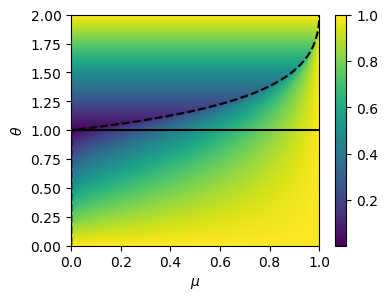
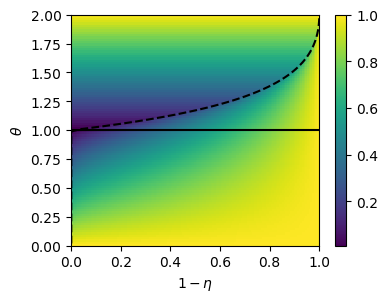
reshaped local analysis

diff --git a/paper.tex b/paper.tex
@@ -383,14 +383,14 @@ We now argue that a good choice for the functions $\theta_k$ may be constructed 
 This construction has several advantages:
 \begin{itemize}
 \item it allows to choose arbitrarily the parameter $\theta_0$ that will be used eventually when the algorithm is close to convergence (we motivate what are good choices for $\theta_0$ in section \ref{section:local});
-\item it is also an easy approach to having an adaptive method, as the approximation of $\Theta^*$ has a negligible cost (it only require to solve a one dimensional problem that depends on the smallest value of $(A_k \gamma)\oslash \mu^k$, which can be done in a few iterations of Newton's method).
+\item it is also an easy approach to having an adaptive method, as the approximation of $\Theta^*$ has a negligible cost (it only require to solve a one dimensional problem that depends on the smallest value of $(A_k \gamma)\oslash \mu^k$, which can be done in a few iterations of Newton's method);
 \item experiments show that this is often an excellent choice in practice.
 \end{itemize}
 
 \begin{proof}
 Looking at Figure~\ref{phi_omega} can help understand this proof.	Since the partial derivative of $\partial_\omega \varphi_\omega(x)$ is nonzero for any $x<1$, the implicit function theorem proves the continuity of $\Theta^*$.
 	The function $\Theta^*\left((A_k \gamma)\oslash \mu^k)\right)$ is such that every term in relation (\ref{eq:kl_diff_scal}) is non-negative.
-	Therefore, by lemma \ref{lemma:F_P_theta}, using this parameter minus $\delta$ ensures the strong decrease (\ref{eq:cond_theta_k}) of the Lyapunov function.
+	Therefore, by Lemma \ref{lemma:F_P_theta}, using this parameter minus $\delta$ ensures the strong decrease (\ref{eq:cond_theta_k}) of the Lyapunov function.
 	Constraining the parameter to $[1,\theta_0]$ preserves this property.% as using $\theta=1$ always satisfies inequality \eqref{eq:cond_theta_k} and using $\theta=\theta_0$ when it is smaller than $\Theta^*\left(\frac{A_k \gamma}{\mu^k}\right)$ does as well.
 \end{proof}
 
@@ -426,23 +426,51 @@ The resulting algorithm, which is proved to be convergent by Theorem~\ref{thm:al
 
 \section{Acceleration of local convergence rate}
 \label{section:local}
-In order to theoretically justify the acceleration of convergence that is observed in practice, we now study the local convergence rate of the algorithm. %We do not claim that this simple overrelaxation is the most efficient method to accelerate local convergence of fixed points---adaptive methods with excellent properties exist e.g.~\cite{2016arXiv160604133S}--- but this local analysis gives a hint for what makes our scheme relevant is the conjunction of our global convergence guarantee with this local acceleration property.
+In order to justify the acceleration of convergence that is observed in practice, we now study the local convergence rate of the overrelaxed algorithm, which follows from the classical convergence analysis of the linear SOR method. Our result involves the second largest eigenvalue of the matrix
+ \[
+M_1= \diag(1\oslash \mu^1) \, \gamma^* \, \diag(1\oslash \mu^2)\, ^t\gamma^*
+\]
+where $\gamma^*$ is the solution to the regularized OT problem. This matrix corresponds to the linearized dual SK iteration at the maximizer. We denote this second largest eigenvalue by $1-\eta$, which satisfies $\eta>0$ (see \cite{knight2008sinkhorn}).
 
-%The local behavior of the extrapolated is summarized in the next result, which gathers many results from the literature.
 \begin{proposition}\label{prop:local}
-Let $1-\eta$ be the local linear rate of convergence of the SK algorithm. By \cite{knight2008sinkhorn} we know that $\eta>0$. Then, for the optimal choice of parameter $\theta_0 = 2/(1+\sqrt{\eta})$, the overrelaxed projection algorithm converges locally linearly at a rate $(1-\sqrt{\eta})/(1+\sqrt{\eta})$.
+The SK algorithm converges locally at a linear rate $1-\eta$. For the optimal choice of extrapolation parameter $\theta^* = 2/(1+\sqrt{\eta})$, the overrelaxed projection algorithm converges locally linearly at a rate $(1-\sqrt{\eta})/(1+\sqrt{\eta})$. More generally, the local convergence of the overrelaxed algorithm is guaranteed as long as $\theta \in {]0,2[}$ and the linear rate is given on Figure~\ref{fig:eigtransform} as a function of $1-\eta$ and $\theta$.
 \end{proposition}
 
-Note that the local linear rate is also improved if $\theta_0$ is not the optimal choice, see \cite[chapter 5]{ciarlet1982introduction}. By remarking that for any choice of $\theta_0<2$ there is a neighborhood of $1$ on which $\varphi_{\theta_0}(\cdot)$ is nonnegative, one sees that this result applies in particular to our algorithm because eventually, for $\ell$ big enough, one has $\Theta(\gamma^\ell)=\theta_0$.
+\begin{proof}
+In this proof, we focus on the dual problem and we recall the relationship $\gamma^{\ell}=e^{\alpha^\ell/\epsilon}\gamma^0e^{\beta^\ell/\epsilon}$ between the iterates of the overrelaxed projection algorithm $\gamma^\ell$ and the  iterates $(\alpha^\ell,\beta^\ell)$ of the SOR algorithm on the dual problem~\eqref{SORdual}, initialized with $(\alpha^0,\beta^0)=(0,0)$. %First notice that if $\gamma^\ell \to \gamma^*$, then $\KL(\gamma^\ell,\gamma^0)\to\KL(\gamma^*,\gamma^0)$, which is equivalent to $E(\alpha^\ell,\beta^\ell)$ converges to the maximum of $E$.
+The dual problem~\eqref{DROT} is invariant by translations of the form $(\alpha,\beta)\mapsto (\alpha-k,\beta+k)$, $k\in \IR$, but is otherwise strictly convex on any subspace which does not contain the line $\IR(\mathbf{1},-\mathbf{1})$ (this invariance cancels in the corresponding primal iterates). In order to deal with this invariance, consider the subspace $S$ of pairs of dual variables $(\alpha,\beta)$ that satisfy $\alpha_1=0$, let $\pi_S$ be the (non orthogonal) projection on $S$ of kernel $(\mathbf{1},-\mathbf{1})$ and let $(\alpha^*,\beta^*)\in S$ be a dual maximizer. 
+
+% 
+Since the SOR iteration it smooth, its local convergence is characterized by the local convergence of its linearized version, which corresponds to the SOR method applied to maximize the quadratic expansion of the dual objective $E$ at $(\alpha^*,\beta^*)$. This defines an affine map $M_\theta : (\alpha^{\ell},\beta^{\ell})\mapsto (\alpha^{\ell+1},\beta^{\ell+1})$ whose spectral properties are well known~\cite{ciarlet1982introduction, young2014iterative} (see also \cite[chapter 4]{chizat2017these} for the specific case of convex minimization). Specifically, in the non strictly concave case~\cite{hadjidimos1985optimization}, we have that the operator $\pi_S\circ M_1^\ell$ converges at the linear rate $1-\eta$ towards the projector on $(\alpha^*,\beta^*)$ and that the convergence of $\pi_S\circ M_\theta^\ell$ is guaranteed for $\theta \in ]0,2[$, with the rate 
+\[
+f(\theta,\eta) = \begin{cases}
+\theta-1 & \text{if $\theta$}\\
+\frac12 \theta^2(1-\eta) - (\theta-1) +\frac12 \sqrt{(1-\eta)\theta^2(\theta^2(1-\eta)-4(\theta-1))} & \text{otherwise.}
+\end{cases}
+\]
+where $\theta^*=2/(1+\sqrt{\eta})$ is the optimal parameter, for which $f(\theta,\eta)=(1-\sqrt{\eta})/(1+\sqrt{\eta})$. The function $f$ is plotted in Figure \ref{fig:eigtransform}.
+
+To switch from these dual convergence results to primal results, remark that $\gamma^\ell \to \gamma^*$ implies $\KL(\gamma^\ell,\gamma^0)\to \KL(\gamma^*,\gamma^0)$ which in turn implies $E(\alpha^\ell,\beta^\ell) \to \max E$ so invoking the partial strict concavity of $E$, $\pi_S(\alpha^\ell,\beta^\ell)\to (\alpha^*,\beta^*)$. The converse implication is direct. We conclude by noting that the fact that $\pi_S(\alpha^\ell, \beta^\ell)$ converges at a linear rate implies the same rate on $\gamma^\ell$, thanks to the relationship between the iterates.
+%Using standard arguments, we have that the local convergence rate of the SOR procedure on the dual objective $E$ is that of the SOR procedure applied to the quadratic form defined by its Hessian and the linear rate of \emph{semi-convergence} to the projection on the set of minimizers. 
+\end{proof}
+
+\begin{figure}
+\centering
+\includegraphics[scale=0.65]{images/eigen_transform}
+\caption{\label{fig:eigtransform} Local linear rate of convergence of the overrelaxed algorithm as a function of $1-\eta$, the local convergence rate of SK algorithm and $\theta$ the overrelaxation parameter. (plain curve) the original rate is recovered for $\theta=1$. (dashed curve) optimal overrelaxation parameter $\theta^*$.}
+\end{figure}
+
+%\begin{proposition}%\label{prop:local}
+%Let $1-\eta$ be the (worst case) local linear rate of convergence of the SK algorithm. By \cite{knight2008sinkhorn} we know that $\eta>0$. Then, for the optimal choice of parameter $\theta_0 = 2/(1+\sqrt{\eta})$, the overrelaxed projection algorithm converges locally linearly at a rate $(1-\sqrt{\eta})/(1+\sqrt{\eta})$.
+%\end{proposition}
+
+%Note that the local linear rate is also improved if $\theta_0$ is not the optimal choice, see \cite[chapter 5]{ciarlet1982introduction}, \cite[chapter 4]{chizat2017these}. 
+
 \begin{corollary}
-The preceding local convergence rate applies to Algorithm \ref{thm:algo}, where $\theta_0$ is the chosen ``target'' overrelaxation parameter.
+The previous local convergence analysis applies to Algorithm \ref{thm:algo}, where the local convergence rate is governed by the choice of the target extrapolation parameter $\theta_0$.
 \end{corollary}
 \begin{proof}
-For this proof we will adopt a dual point of view, where the overrelaxed projection method boils down to the well-known SOR method~\eqref{SORdual}  and relying on the characterization $\gamma^{\ell}=e^{\alpha^\ell/\epsilon}\gamma^0e^{\beta^\ell/\epsilon}$ where $(\alpha^\ell,\beta^\ell)$ are the SOR iterates, initialized by $(\alpha^0,\beta^0)=(0,0)$. Notice that the dual problem~\eqref{DROT} has an invariant subspace due to the invariance by translation $(\alpha,\beta)\mapsto (\alpha-k,\beta+k)$, $k\in \IR$, but is strictly convex in any subspace which does not contain this line. Also, this invariance disappears in the associated primal iterates. 
-
-The SOR procedure~\eqref{SORdual}, when applied to maximize a concave quadratic form, defines a linear map $M_\omega : (\alpha^{\ell},\beta^{\ell})\mapsto (\alpha^{\ell+1},\beta^{\ell+1})$ which spectral properties are well known~\cite{ciarlet1982introduction, young2014iterative} , even in the non strictly concave case~\cite{hadjidimos1985optimization}, where convergence is replaced by \emph{semi-convergence}, i.e.\ convergence to a nonzero linear map.
-
-Using standard arguments, we have that the local convergence rate of the SOR procedure on the dual objective $E$ is that of the SOR procedure applied to the quadratic form defined by its Hessian and the linear rate of \emph{semi-convergence} to the projection on the set of minimizers. 
+What we need to show is that eventually one always has $\Theta(\gamma^\ell)=\theta_0$. This can be seen from the quadratic Taylor expansion $\varphi_{\theta_0}(1+z)=z^2(\theta_0 -\theta_0^2/2)+ o(z^2)$, which shows that for any choice of $\theta_0<2$ there is a neighborhood of $1$ on which $\varphi_{\theta_0}(\cdot)$ is nonnegative.
 \end{proof}
 
 %If $(\alpha^*,\beta^*)$ is a solution of \eqref{DROT}, then all the other optimum can be written as $(\alpha^*+\kappa,\beta^*-\kappa)$, which means that the problem admits a unique solution, up to a translation with constant $\kappa\in\IR$.
@@ -452,7 +480,7 @@ Using standard arguments, we have that the local convergence rate of the SOR pro
     
 
 \section{Experimental results}
-We compare Algorithm~\ref{SOR} to SK in two very different settings.
+We compare Algorithm~\ref{SOR} to SK algorithm in two very different settings.
 In setting (a) we consider the domain $[0,1]$ discretized into $100$ samples and the squared Euclidean transport cost on this domain.
 The marginals are densities made of the sum of a base plateau of height $0.1$ and another plateau of heights and boundaries chosen uniformly in $[0,1]$, subsequently normalized.
 In setting (b) the cost is a $100\times 100$ random matrix with entries uniform in $[0,1]$ and the marginals are uniform.
@@ -472,6 +500,7 @@ Given an estimation of $1-\eta$, the local convergence rate of SK algorithm, we 
 \end{minipage}
 			\caption{\label{fig:comparison}Speed ratio of SK algorithm and its accelerated version Algorithm~\ref{SOR} w.r.t parameter $\epsilon$.}% (stopping criterion $\Vert u - u^* \Vert_\infty<10^{-6})$
 \end{figure}
+
 Figure~\ref{fig:comparison} displays the ratio of the number of iterations required to reach a precision of $10^{-6}$ on the dual variable $\alpha$ for SK algorithm and Algorithm \ref{SOR}. It is is worth noting that the complexity per iteration is the same, modulo negligible terms, so this ratio is also the runtime ratio (our algorithm can also be parallelized on GPUs just as SK algorithm). In both experimental settings, for low values of the regularization parameter $\epsilon$, the acceleration ratio is above $20$  with Algorithm \ref{SOR}.
 
 %\renewcommand{\algorithmiccomment}[1]{\hfill\bgroup(#1)\egroup}
